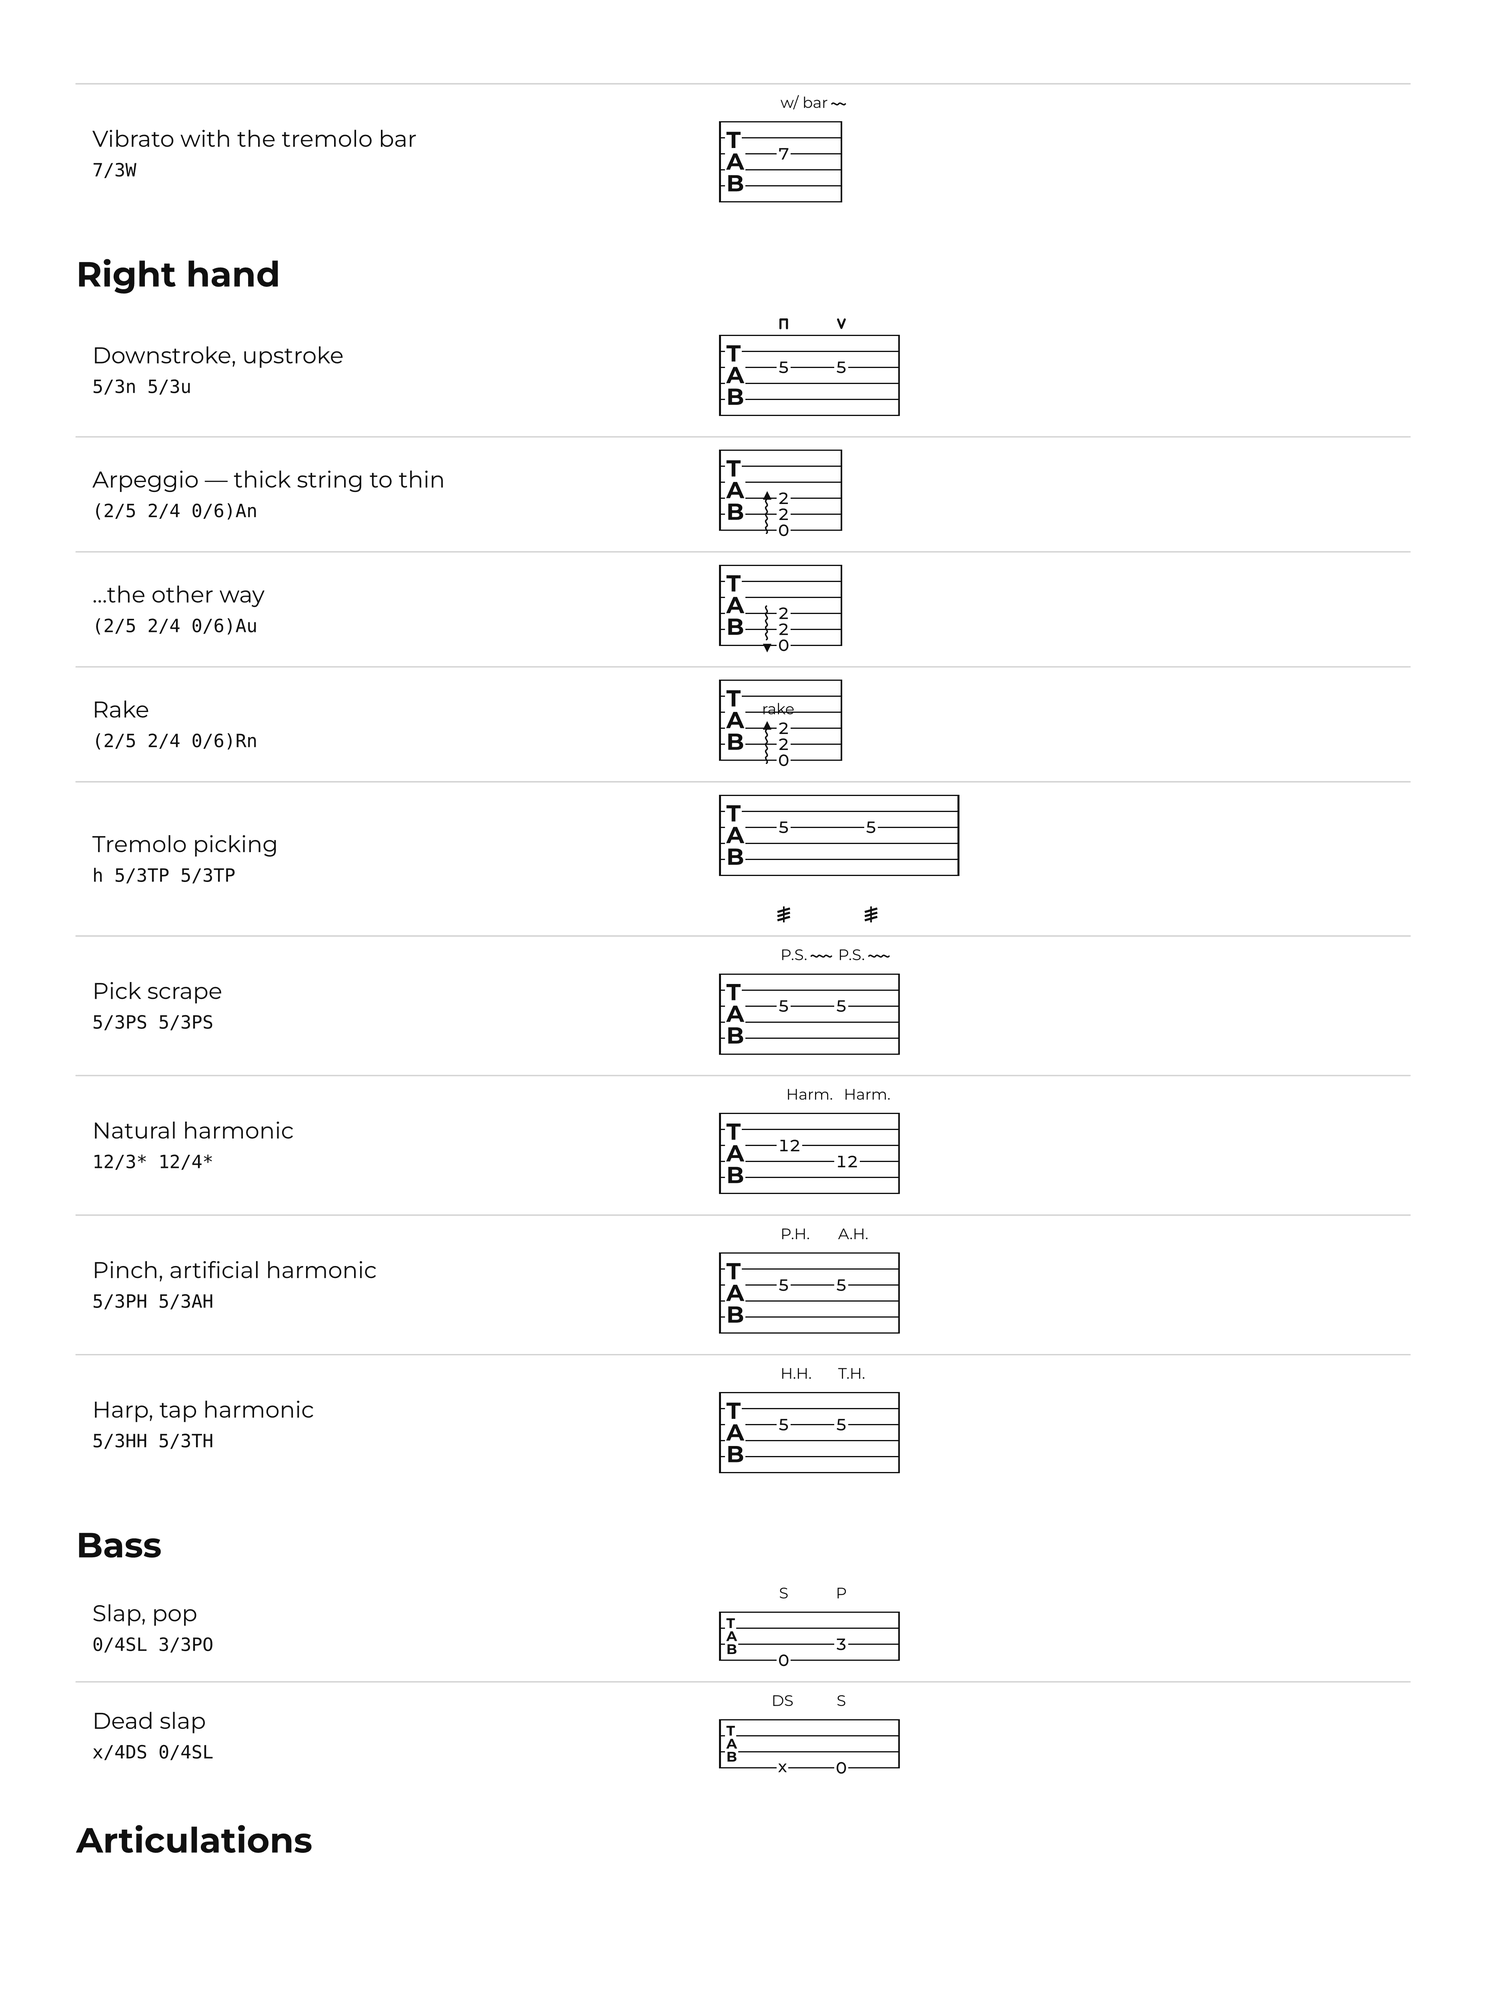
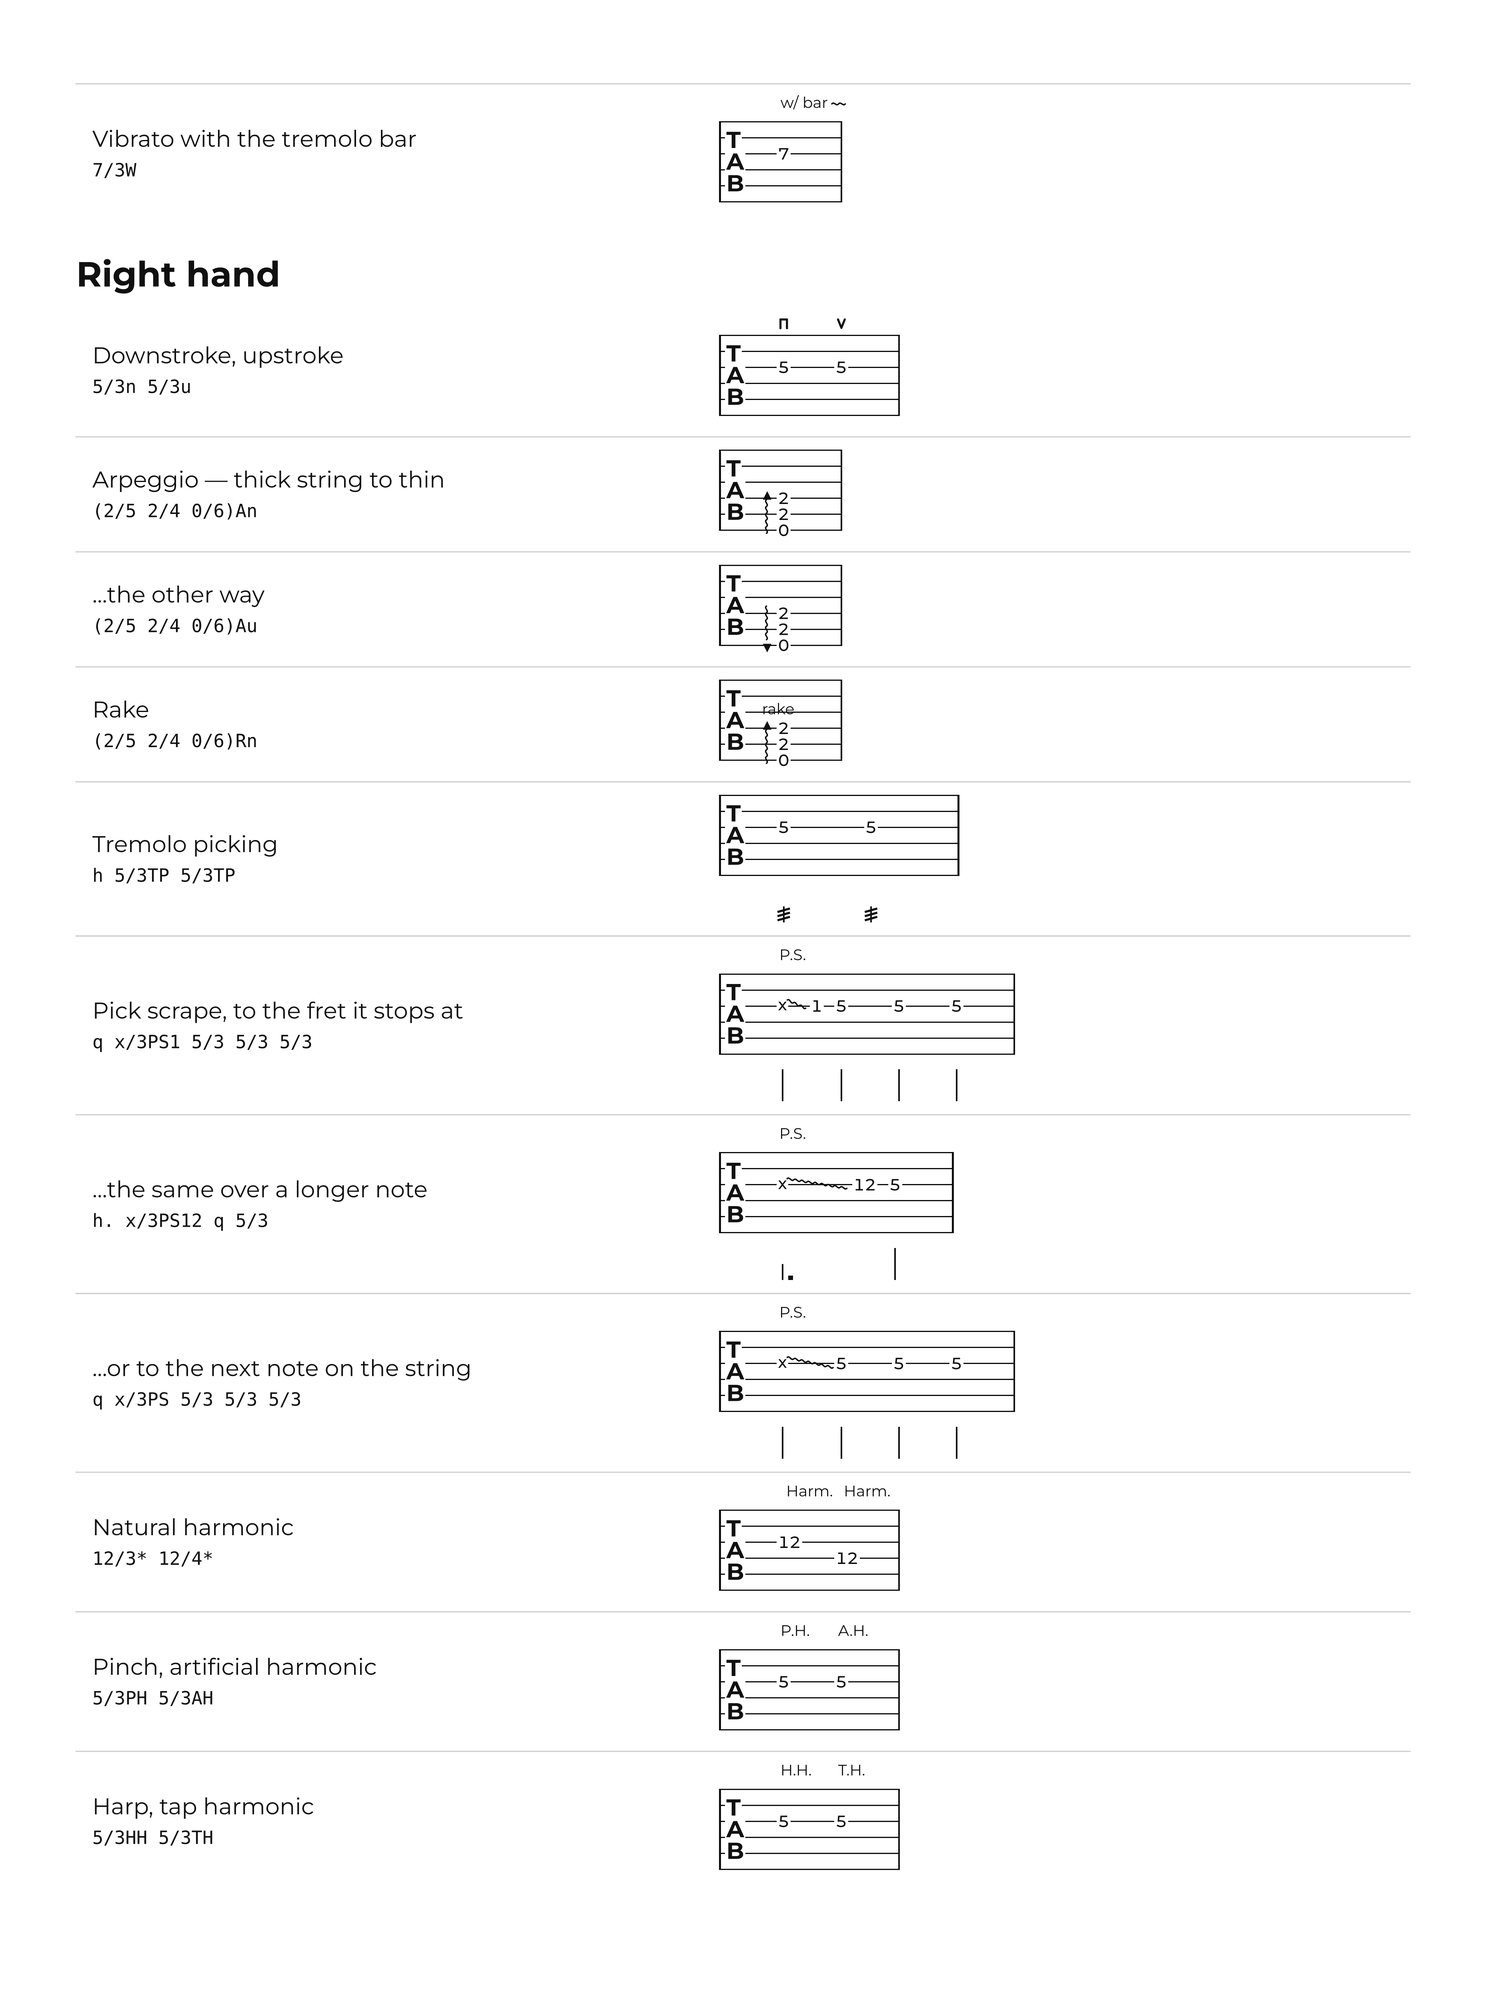
Draw tapping, and make a pick scrape a link along its string
Two techniques the documentation promised and the page never showed.

Tapping reached the model from both syntaxes — `5/3T` and the ASCII
importer's inline `t` — and four places in the docs named it, but the
technique lane had no branch for it: a tapped note printed exactly like an
untapped one. It is a `T` over the note now, by the same mechanism as the
bass right hand's letters, which is why that table is no longer named for
the bass.

A pick scrape drew its wave above the staff beside the words, so the mark
said a scrape happened somewhere hereabouts and named no string. Both
references put it on the string — Hal Leonard's legend writes `P.S.` above
and an `X` on the string, Songsterr runs a wave from that `X` to where the
pick stops — so the wave is drawn in the staff. It tilts across the string
line rather than lying along it: flat, the two merge into one thick dashed
rule with the string lost inside, measured off research/pickscrape.svg and
confirmed by drawing it that way first.

That makes a scrape a *link*, in the sense the model already had for
slides, and it is one for the same reason: it is dragged *to* somewhere,
and that destination is where the gesture ends rather than a second
attack. Written `x/3PS1` the number shares the note's value and the wave
spans the whole of it, so the same mark over a half note is twice the drag
it is over a quarter — which needed the target set at the far side of the
[…]

diff --git a/GUIDE.md b/GUIDE.md
@@ -13,60 +13,65 @@ sheet, see [`examples/songsheet.typ`](examples/songsheet.typ).
 
 <picture>
   <source media="(prefers-color-scheme: dark)" srcset="docs/guide-dark-01.png">
-  <img alt="fretwork guide, page 1 of 12" src="docs/guide-light-01.png" width="100%">
+  <img alt="fretwork guide, page 1 of 13" src="docs/guide-light-01.png" width="100%">
 </picture>
 
 <picture>
   <source media="(prefers-color-scheme: dark)" srcset="docs/guide-dark-02.png">
-  <img alt="fretwork guide, page 2 of 12" src="docs/guide-light-02.png" width="100%">
+  <img alt="fretwork guide, page 2 of 13" src="docs/guide-light-02.png" width="100%">
 </picture>
 
 <picture>
   <source media="(prefers-color-scheme: dark)" srcset="docs/guide-dark-03.png">
-  <img alt="fretwork guide, page 3 of 12" src="docs/guide-light-03.png" width="100%">
+  <img alt="fretwork guide, page 3 of 13" src="docs/guide-light-03.png" width="100%">
 </picture>
 
 <picture>
   <source media="(prefers-color-scheme: dark)" srcset="docs/guide-dark-04.png">
-  <img alt="fretwork guide, page 4 of 12" src="docs/guide-light-04.png" width="100%">
+  <img alt="fretwork guide, page 4 of 13" src="docs/guide-light-04.png" width="100%">
 </picture>
 
 <picture>
   <source media="(prefers-color-scheme: dark)" srcset="docs/guide-dark-05.png">
-  <img alt="fretwork guide, page 5 of 12" src="docs/guide-light-05.png" width="100%">
+  <img alt="fretwork guide, page 5 of 13" src="docs/guide-light-05.png" width="100%">
 </picture>
 
 <picture>
   <source media="(prefers-color-scheme: dark)" srcset="docs/guide-dark-06.png">
-  <img alt="fretwork guide, page 6 of 12" src="docs/guide-light-06.png" width="100%">
+  <img alt="fretwork guide, page 6 of 13" src="docs/guide-light-06.png" width="100%">
 </picture>
 
 <picture>
   <source media="(prefers-color-scheme: dark)" srcset="docs/guide-dark-07.png">
-  <img alt="fretwork guide, page 7 of 12" src="docs/guide-light-07.png" width="100%">
+  <img alt="fretwork guide, page 7 of 13" src="docs/guide-light-07.png" width="100%">
 </picture>
 
 <picture>
   <source media="(prefers-color-scheme: dark)" srcset="docs/guide-dark-08.png">
-  <img alt="fretwork guide, page 8 of 12" src="docs/guide-light-08.png" width="100%">
+  <img alt="fretwork guide, page 8 of 13" src="docs/guide-light-08.png" width="100%">
 </picture>
 
 <picture>
   <source media="(prefers-color-scheme: dark)" srcset="docs/guide-dark-09.png">
-  <img alt="fretwork guide, page 9 of 12" src="docs/guide-light-09.png" width="100%">
+  <img alt="fretwork guide, page 9 of 13" src="docs/guide-light-09.png" width="100%">
 </picture>
 
 <picture>
   <source media="(prefers-color-scheme: dark)" srcset="docs/guide-dark-10.png">
-  <img alt="fretwork guide, page 10 of 12" src="docs/guide-light-10.png" width="100%">
+  <img alt="fretwork guide, page 10 of 13" src="docs/guide-light-10.png" width="100%">
 </picture>
 
 <picture>
   <source media="(prefers-color-scheme: dark)" srcset="docs/guide-dark-11.png">
-  <img alt="fretwork guide, page 11 of 12" src="docs/guide-light-11.png" width="100%">
+  <img alt="fretwork guide, page 11 of 13" src="docs/guide-light-11.png" width="100%">
 </picture>
 
 <picture>
   <source media="(prefers-color-scheme: dark)" srcset="docs/guide-dark-12.png">
-  <img alt="fretwork guide, page 12 of 12" src="docs/guide-light-12.png" width="100%">
+  <img alt="fretwork guide, page 12 of 13" src="docs/guide-light-12.png" width="100%">
+</picture>
+
+<picture>
+  <source media="(prefers-color-scheme: dark)" srcset="docs/guide-dark-13.png">
+  <img alt="fretwork guide, page 13 of 13" src="docs/guide-light-13.png" width="100%">
 </picture>

diff --git a/CHANGELOG.md b/CHANGELOG.md
@@ -15,6 +15,10 @@
   `7/3b~` was already legal.
 - Theme values `lyric-size` and `lyric-gap`. `lyric-font` was reserved in 0.1.0
   and is now used.
+- ASCII import reads a **pick scrape**, written the way it writes the harmonic
+  marks but against an `x`, the scrape having no pitch of its own: `xPS1` drags
+  to the first fret, `xPS` to whatever plays the string next. A dead note never
+  entered the technique chain, so the mark is read where the `x` itself is read.
 - ASCII import reads two dialect spellings it did not before: `<12>` for a
   natural harmonic, as Power Tab and Guitar Pro export it, and `W H Q E S` in an
   `R:` row, which is how those exports write their own duration line — so a tab
@@ -123,6 +127,26 @@
 
 ### Fixed
 
+- **A pick scrape was drawn beside the music rather than on it.** The wave sat
+  above the staff next to the words, so the mark said a scrape happened
+  somewhere hereabouts and named no string. Both references put it on the
+  string: Hal Leonard's legend writes `P.S.` above and an `X` on the string, and
+  Songsterr runs the wave from that `X` to the note the scrape lands on. It is
+  now drawn in the staff. A scrape is a *link*, in the sense the model already
+  had for slides: named a fret it drags to that fret, whose number shares the
+  note's value rather than being struck, and the wave spans the note's whole
+  length — so the same mark over a half note is twice the drag it is over a
+  quarter. Named none it runs to the next note on the string, and carries across
+  a system break as any other link does. The wave tilts across
+  the string line rather than lying along it — flat, the two merge into one thick
+  dashed rule and the string disappears inside it.
+- **Tapping was never drawn.** `5/3T` and the ASCII importer's inline `t` both
+  reached the model, and four places in the documentation promised the mark, but
+  the technique lane had no branch for it — a tapped note printed exactly like an
+  untapped one. It is now a `T` over the note, by the same mechanism as the bass
+  right hand's letters. The visual fixture already contained a `7/3T`, which is
+  how this stayed hidden: a reference pinned around the empty space where a mark
+  should be says nothing about the mark.
 - Two tuplets written one after the other drew a single bracket across both.
   Runs now part at a beat boundary, as beam groups do.
 - A densely noted string row — two-digit frets with single dashes between them —

diff --git a/README.md b/README.md
@@ -72,7 +72,8 @@ suffix after a closing parenthesis binds to every note of a chord.
 | `7/3>` `7/3^` `7/3!` `7/3-` | accent / marcato / staccato / tenuto |
 | `7/3n` `7/3u` | downstroke / upstroke |
 | `7/3T` `7/3g` | tapping / ghost note |
-| `7/3tr9` `7/3TP` `7/3PS` | trill / tremolo picking / pick scrape |
+| `7/3tr9` `7/3TP` | trill / tremolo picking |
+| `x/3PS1` `x/3PS` | pick scrape — to the fret named, or to the next note on the string |
 | `7/3W` `7/3F` | tremolo-bar vibrato / fermata — `rF` and `xF` too |
 | `(…)An` `(…)Au` `(…)Rn` | arpeggiate or rake, thick string to thin or back |
 | `0/4SL` `3/3PO` `x/3DS` | bass: slap / pop / dead slap |
@@ -167,8 +168,10 @@ ASCII tab can say silence at all.
 Structure written into the rows themselves is read too: `|:` opens a repeat,
 `:|` closes one, `:|:` does both, and `:|x3` says how many times to play it.
 Ultimate Guitar's harmonic marks are read against the fret — `7PH`, `5AH`,
-`12NH`, `9HH`, `7TH` — and a fret in parentheses that repeats the note before it
-on the same string is a tie rather than a ghost note.
+`12NH`, `9HH`, `7TH` — and a pick scrape the same way, but against an `x`, since
+it has no pitch of its own: `xPS1` drags to the first fret, `xPS` to whatever
+plays the string next. A fret in parentheses that repeats the note
+before it on the same string is a tie rather than a ghost note.
 
 When the rhythm is regular one argument replaces the row — `rhythm: even(1/8)`,
 `rhythm: fill`, or `rhythm: "q q e e"`, and `lyrics:` likewise for a source with

diff --git a/SPEC.md b/SPEC.md
@@ -105,7 +105,7 @@ Suffixes, always after the string number.
 | `7/3T` | tapping |
 | `7/3tr9` `7/3tr` | trill, to the given fret or unspecified |
 | `7/3TP` | tremolo picking |
-| `7/3PS` | pick scrape |
+| `x/3PS1` `x/3PS` | pick scrape — to the fret named, or to the next note on that string |
 | `7/3W` | vibrato with the tremolo bar, printed `w/ bar` |
 | `7/3F` `rF` `xF` | fermata — over a note, a rest or a bare mute |
 | `(…)A` `(…)An` `(…)Au` | arpeggiate, thick string to thin or the reverse |
@@ -324,6 +324,11 @@ E|--------3--------|-----------------|
   They used to reach a tab only through a `T:` row, which put the right word over
   the right column and left the model none the wiser; now the model carries what
   the source said and `ascii-to-dsl` writes it back out.
+- A pick scrape is written the same way and read at the same point, but against
+  an `x`: `xPS`. It has no pitch of its own — which is what both legends say by
+  drawing an X on the string — and a dead note never enters the fret scan, so
+  the mark is read where the `x` itself is read or it could not be written at
+  all.
 
   A source that writes the mark on a line of its own above the staff still needs
   the `T:` row: recognising an unprefixed line of marks and placing it on the
